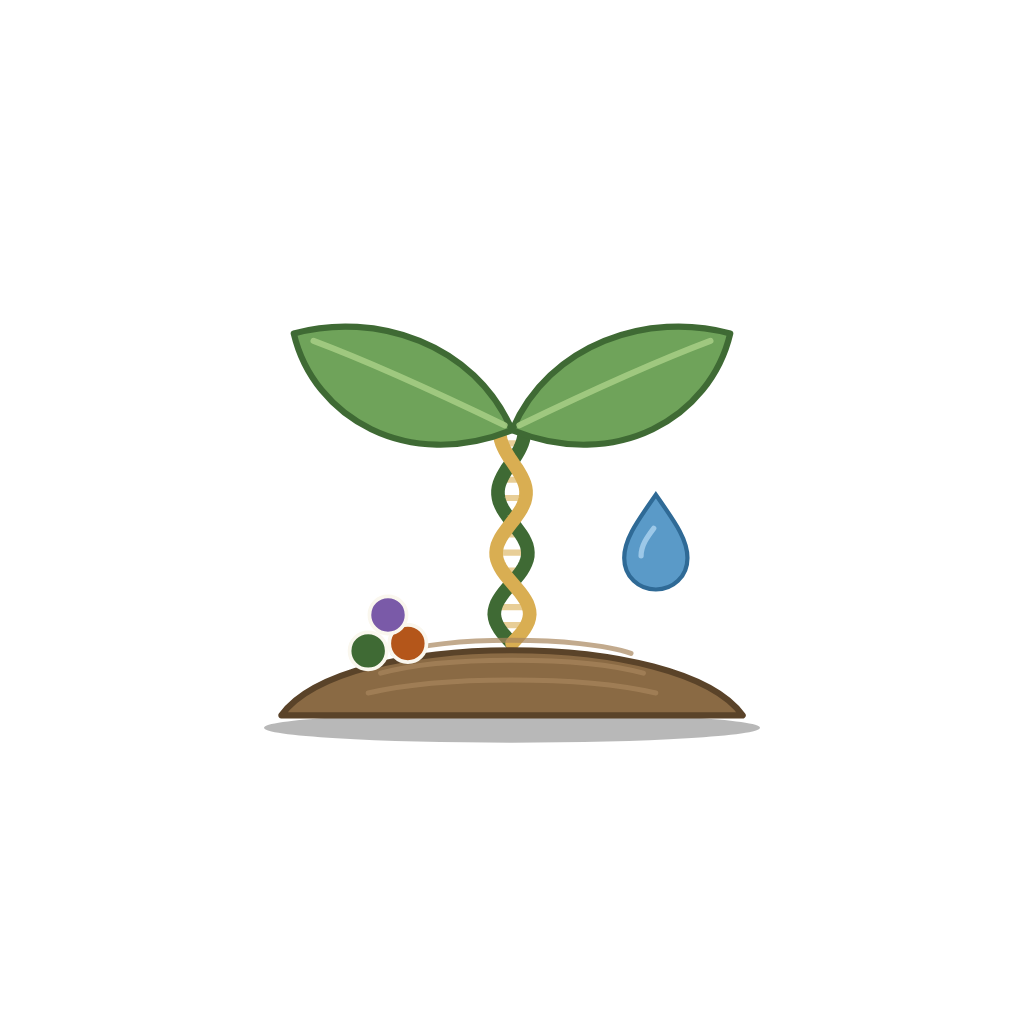
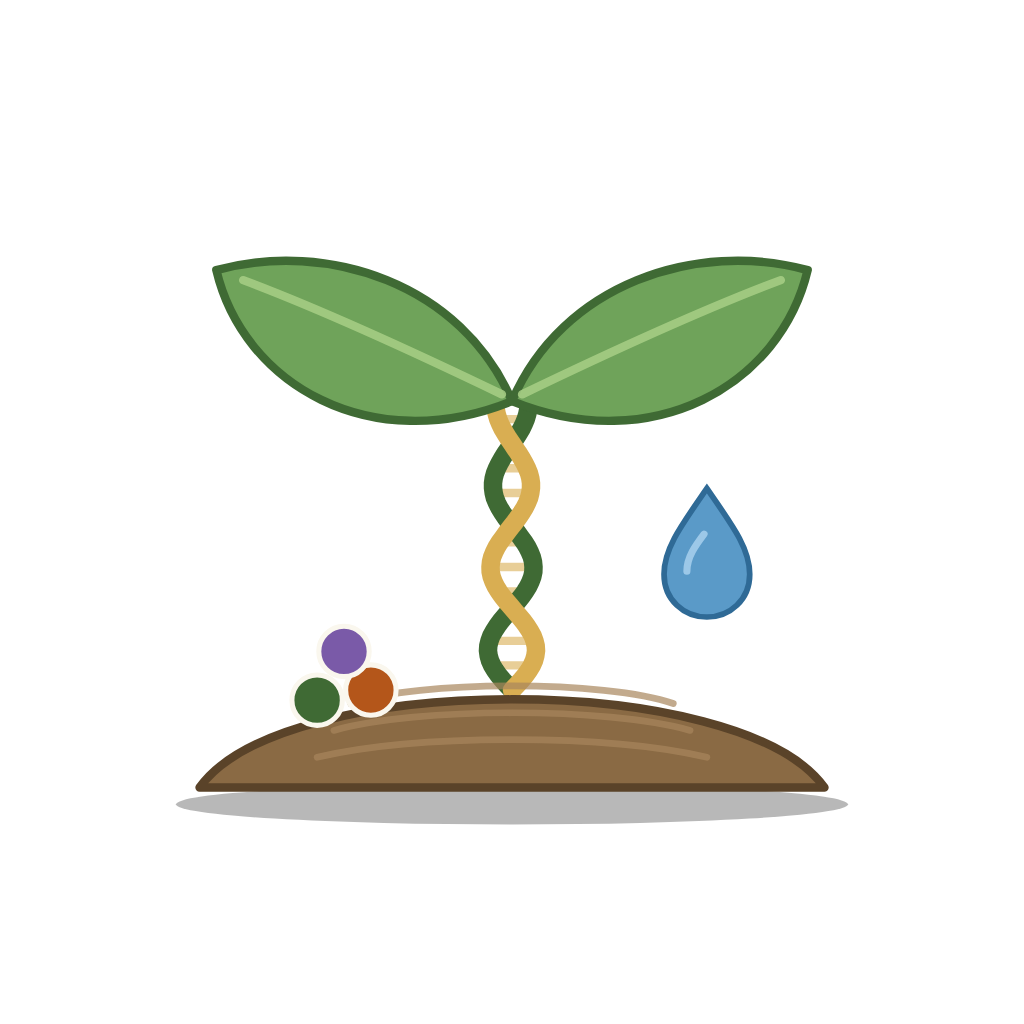
Icône Android : avant-plan adaptatif agrandi, couche monochrome (Android 13+)
L'avant-plan était réduit deux fois (échelle 0,62 puis encart de 16,7 %
de capacitor-assets) : l'emblème occupait 40 % de l'icône sur le lanceur.
Il est dessiné à 0,84 pour remplir la vue en restant dans le cercle de
sécurité. Ajout d'une silhouette monochrome pour les icônes à thème,
branchée après capacitor-assets ; favicon recadré.

Claude-Session: https://claude.ai/code/session_014NhuB5j3zGDmySSYmK1UWD

Changed region(s): [[0.1562, 0.25, 0.8438, 0.8125], [0.5938, 0.4688, 0.75, 0.625]]

diff --git a/README.md b/README.md
@@ -299,7 +299,16 @@ Pour régénérer les images après une modification de l'emblème :
    `assets/icon-only.png`, `assets/icon-foreground.png`,
    `assets/icon-background.png` (1024²), `assets/splash.jpg` et
    `assets/splash-dark.jpg` (2732²) ;
-3. `npm run android:assets` pour décliner les icônes et splashs Android.
+   `assets/icon-monochrome.png` (432², silhouette blanche de l'avant-plan
+   sur fond transparent, pour les icônes à thème d'Android 13+) ;
+3. `npm run android:assets` pour décliner les icônes et splashs Android ;
+   la commande ajoute ensuite la couche monochrome à l'icône adaptative
+   (`scripts/android-icon-extras.mjs`).
+
+L'avant-plan de l'icône adaptative est dessiné à l'échelle 0,84 :
+capacitor-assets l'insère déjà dans la vue de 72 dp, et le lanceur y
+applique son masque (cercle, carré arrondi) ; à cette échelle l'emblème
+remplit la vue sans sortir du cercle de sécurité de 66 dp.
 
 ## Design
 
